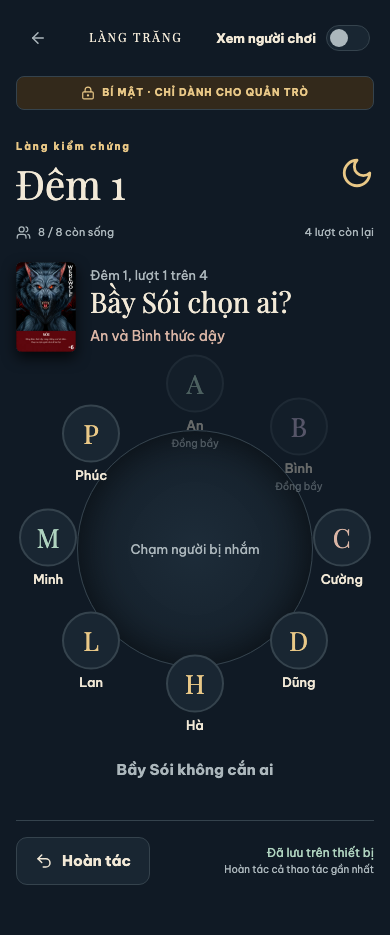
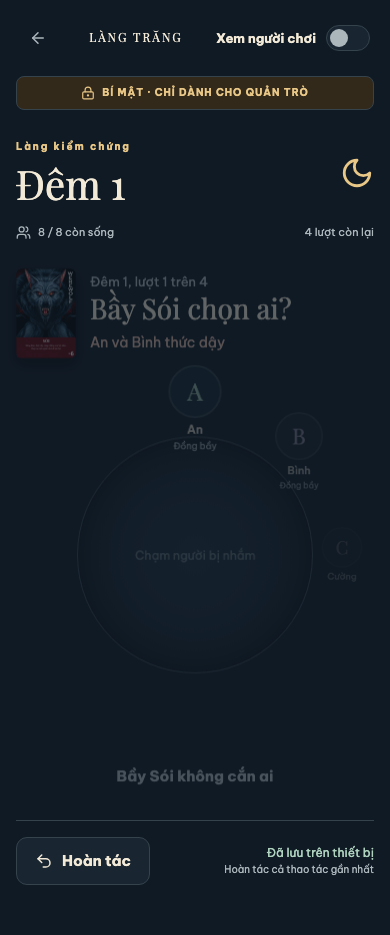
Add a little motion
Buttons and seats press in on tap; each turn and setup step rises in;
seats take their places clockwise when the table appears; the action in
the middle of the table pops in; dealt cards drop into their seat; deck
counts bump; the end-of-game reveal turns the cards over one by one.
Everything is off under prefers-reduced-motion. The accessibility test
now waits for entrance animations before checking colour contrast.

diff --git a/src/app/globals.css b/src/app/globals.css
@@ -2458,6 +2458,111 @@ summary {
     font-size: 11px;
   }
 }
+/* Motion: a few small moves that show what just happened. All of it is
+   switched off by the reduced-motion rule below. */
+@keyframes rise-in {
+  from {
+    opacity: 0;
+    transform: translateY(10px);
+  }
+  to {
+    opacity: 1;
+    transform: none;
+  }
+}
+@keyframes seat-in {
+  from {
+    opacity: 0;
+    transform: scale(0.6);
+  }
+  to {
+    opacity: 1;
+    transform: none;
+  }
+}
+@keyframes pop-in {
+  from {
+    opacity: 0;
+    transform: scale(0.88);
+  }
+  to {
+    opacity: 1;
+    transform: none;
+  }
+}
+@keyframes deal-in {
+  from {
+    opacity: 0;
+    transform: translateY(-26px) rotate(-10deg) scale(0.8);
+  }
+  to {
+    opacity: 1;
+    transform: none;
+  }
+}
+@keyframes bump {
+  0% {
+    transform: scale(1);
+  }
+  40% {
+    transform: scale(1.35);
+  }
+  100% {
+    transform: scale(1);
+  }
+}
+@keyframes turn-up {
+  from {
+    opacity: 0;
+    transform: perspective(600px) rotateY(90deg);
+  }
+  to {
+    opacity: 1;
+    transform: none;
+  }
+}
+.button:active:not(:disabled),
+.rt-action:active:not(:disabled),
+.seat-face:active:not(:disabled),
+.tray-card:active:not(:disabled) {
+  transform: scale(0.95);
+}
+.rt-action,
+.tray-card {
+  transition: transform 0.12s ease;
+}
+.turn,
+.setup-step,
+.deck-page > section,
+.summary .tabs ~ section,
+.death-card,
+.read-aloud {
+  animation: rise-in 0.28s ease-out backwards;
+}
+.rt-seat > * {
+  animation: seat-in 0.26s cubic-bezier(0.2, 0.8, 0.3, 1.2) backwards;
+  animation-delay: calc(var(--i, 0) * 25ms);
+}
+.rt-center > * {
+  animation: pop-in 0.22s ease-out backwards;
+}
+.deal-slot img,
+.deal-slot .card-back {
+  animation: deal-in 0.32s cubic-bezier(0.2, 0.8, 0.3, 1) backwards;
+}
+.deck-count {
+  animation: bump 0.3s ease-out;
+}
+.reveal-seat {
+  animation: turn-up 0.45s ease-out backwards;
+  animation-delay: calc(var(--i, 0) * 70ms);
+}
+.ledger .seat {
+  animation: rise-in 0.25s ease-out backwards;
+}
+.fake-call-card {
+  animation: rise-in 0.6s ease-out backwards;
+}
 @media (prefers-reduced-motion: reduce) {
   *,
   *::before,

diff --git a/e2e/app.spec.ts b/e2e/app.spec.ts
@@ -51,6 +51,12 @@ async function tap(page: Page, labels: string[]) {
   for (const label of labels)
     await page.getByRole("button", { name: label, exact: true }).click();
 }
+// Entrance animations fade content in; check colours once they have finished.
+async function settled(page: Page) {
+  await page.evaluate(() =>
+    Promise.all(document.getAnimations().map((a) => a.finished)),
+  );
+}
 async function inspectSize(page: Page, name: string, width: number) {
   await page.setViewportSize({ width, height: 900 });
   await expect
@@ -407,6 +413,7 @@ test("keyboard access, install manifest and automated accessibility", async ({
   ).toBe(true);
   await page.keyboard.press("Tab");
   await expect(page.locator(":focus")).toHaveClass("brand");
+  await settled(page);
   let results = await new AxeBuilder({ page })
     .withTags(["wcag2a", "wcag2aa", "wcag21aa"])
     // Zoom is disabled on purpose at the moderator's request.
@@ -417,6 +424,7 @@ test("keyboard access, install manifest and automated accessibility", async ({
   await expect(
     page.getByRole("heading", { name: "Đêm 1", exact: true }),
   ).toBeVisible();
+  await settled(page);
   results = await new AxeBuilder({ page })
     .withTags(["wcag2a", "wcag2aa", "wcag21aa"])
     // Zoom is disabled on purpose at the moderator's request.
@@ -424,6 +432,7 @@ test("keyboard access, install manifest and automated accessibility", async ({
     .analyze();
   expect(results.violations).toEqual([]);
   await page.getByRole("switch", { name: "Xem người chơi" }).click();
+  await settled(page);
   results = await new AxeBuilder({ page })
     .withTags(["wcag2a", "wcag2aa", "wcag21aa"])
     // Zoom is disabled on purpose at the moderator's request.

diff --git a/src/features/Summary.tsx b/src/features/Summary.tsx
@@ -1,5 +1,5 @@
 "use client";
-import { useState } from "react";
+import { useState, type CSSProperties } from "react";
 import { ArrowLeft, Trophy, Undo2, BookOpen, RotateCcw } from "lucide-react";
 import type { Game, GameState } from "../domain/types";
 import { GameButton, PhaseHeader, roleAssets } from "../components/ui";
@@ -119,8 +119,12 @@ export function Summary({
 function CardReveal({ state }: { state: GameState }) {
   return (
     <div className="card-reveal">
-      {state.players.map((p) => (
-        <div key={p.id} className={`reveal-seat ${p.alive ? "" : "dead"}`}>
+      {state.players.map((p, i) => (
+        <div
+          key={p.id}
+          className={`reveal-seat ${p.alive ? "" : "dead"}`}
+          style={{ "--i": i } as CSSProperties}
+        >
           {/* Local card scans are intentional native images. */}
           {/* eslint-disable-next-line @next/next/no-img-element */}
           <img

diff --git a/src/components/ui.tsx b/src/components/ui.tsx
@@ -3,6 +3,7 @@ import {
   useEffect,
   useRef,
   type ButtonHTMLAttributes,
+  type CSSProperties,
   type ReactNode,
 } from "react";
 import { LockKeyhole, Skull, Check } from "lucide-react";
@@ -187,10 +188,14 @@ export function RoundTable({
           <div
             key={i}
             className="rt-seat"
-            style={{
-              left: `${50 + 41 * Math.cos(a)}%`,
-              top: `${50 + 41 * Math.sin(a)}%`,
-            }}
+            style={
+              {
+                left: `${50 + 41 * Math.cos(a)}%`,
+                top: `${50 + 41 * Math.sin(a)}%`,
+                // Seats fill clockwise when the table first appears.
+                "--i": i,
+              } as CSSProperties
+            }
           >
             {seat}
           </div>

diff --git a/src/features/SetupWizard.tsx b/src/features/SetupWizard.tsx
@@ -478,7 +478,11 @@ function SetupContent({
                     />
                     {count > 0 && (
                       <>
-                        <span className="deck-count" aria-label={`${count} lá`}>
+                        <span
+                          key={count}
+                          className="deck-count"
+                          aria-label={`${count} lá`}
+                        >
                           {count}
                         </span>
                         <button
